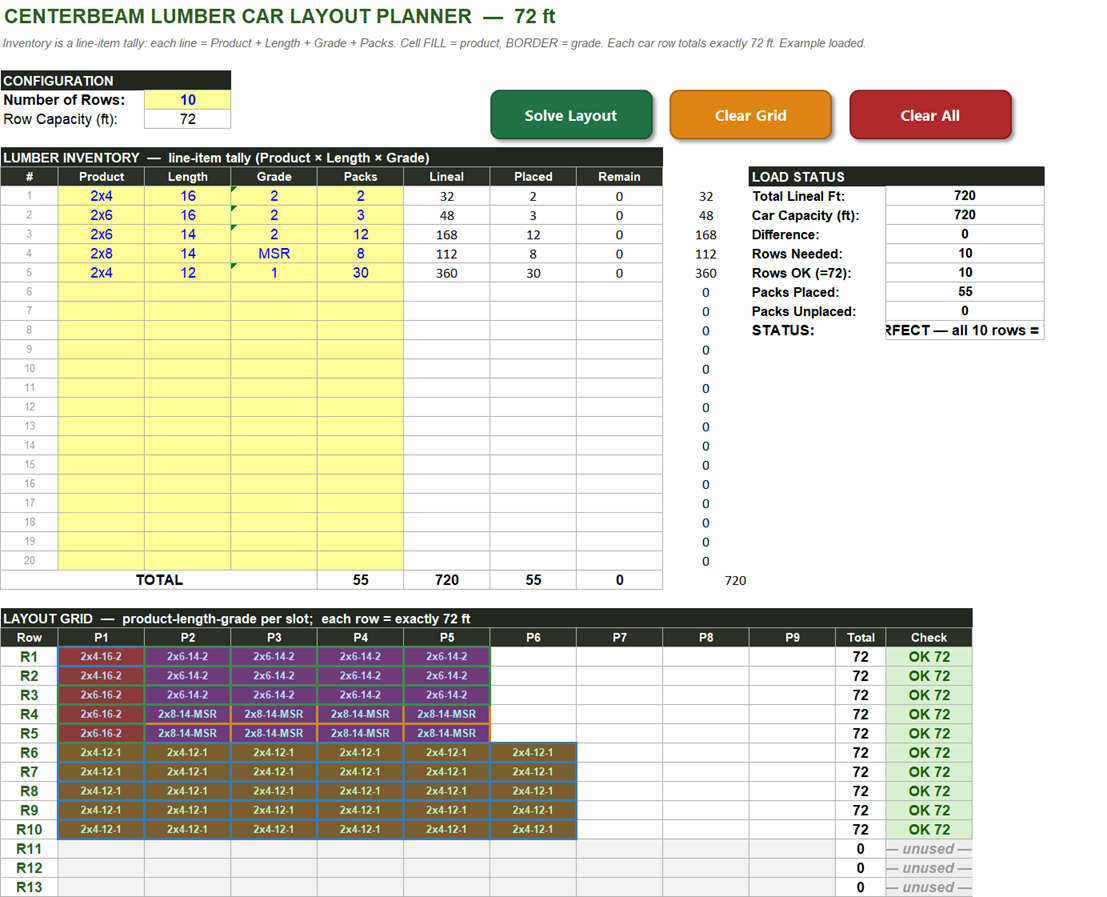
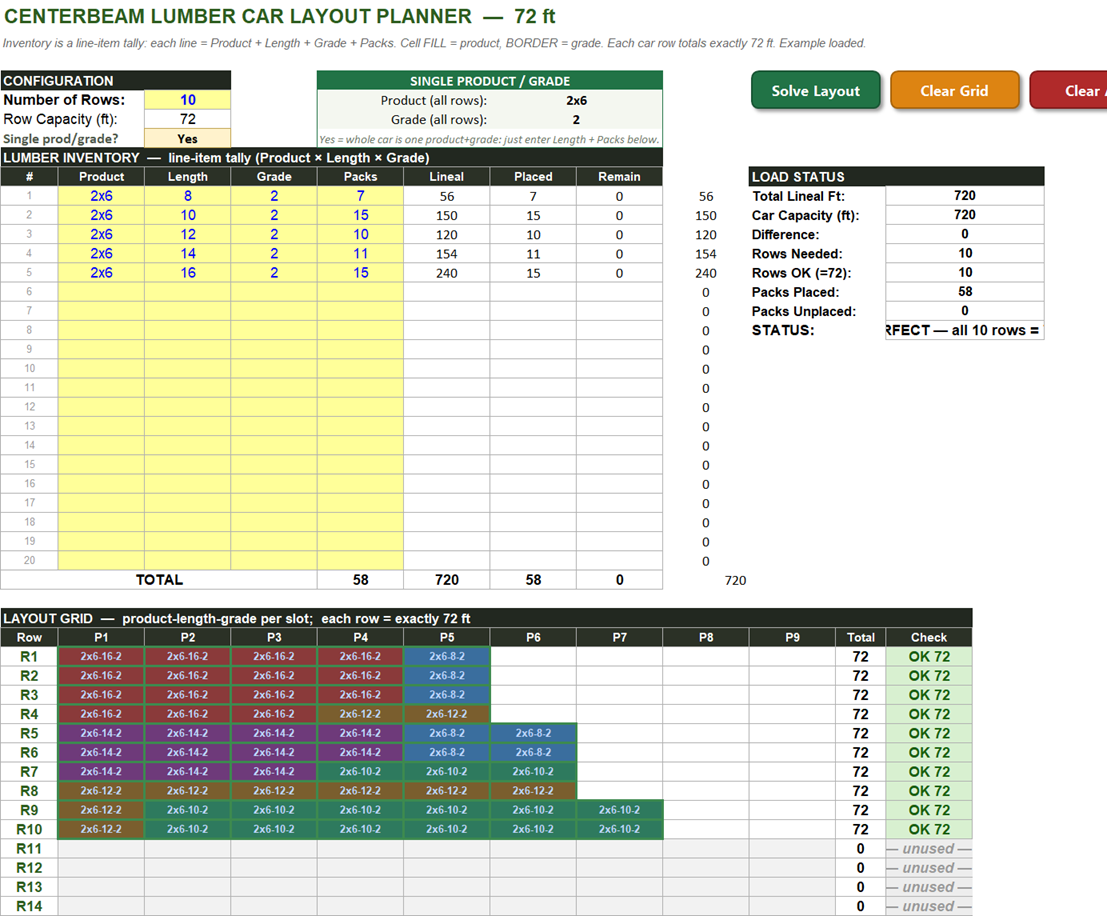
Add single product/grade mode to the Excel planner
Add a Single prod/grade toggle plus default Product/Grade pickers on the Planner sheet. In single mode the user enters only Length and Packs per line; SolveLayout fills blank Product/Grade cells from the defaults (per-line entries still respected), writes them back so the tally/status formulas compute, then solves. Buttons repositioned to clear the new panel; screenshot and README refreshed.

Changed region(s): [[0.0, 0.0, 1.0, 0.9989]]

diff --git a/README.md b/README.md
@@ -53,13 +53,20 @@ pack and drive the color scheme and the manifest breakdowns.
 ### Planner sheet
 
 1. Set **Number of Rows** (10 or 14).
-2. Fill the **line‑item inventory**: one row per Product + Length + Grade + Pack count
-   (dropdowns provided). Lineal ft, Placed, and Remaining compute automatically.
-3. The **Layout Grid** shows the load, one pack per slot, each row summing to 72 ft.
+2. Choose how the car is loaded with the **Single product/grade?** toggle:
+   - **Yes (single product/grade)** — most cars. Pick the **Product** and **Grade**
+     once in the *Single Product / Grade* box, then fill the inventory with just
+     **Length + Packs** on each line. On Solve, the blank Product/Grade cells are
+     filled in for you. (Any value you do type on a line is kept, so you can still
+     mix in the odd different pack.)
+   - **No (mixed)** — fill Product + Length + Grade + Packs on every line, as before.
+3. Fill the **line‑item inventory** (dropdowns provided). Lineal ft, Placed, and
+   Remaining compute automatically.
+4. The **Layout Grid** shows the load, one pack per slot, each row summing to 72 ft.
    - **Fill color = product**
    - **Bold colored border = grade**
    - Cell text is the full code `product-length-grade` (e.g. `2x6-14-2`).
-4. The **Load Status** box reports utilization, full rows, packs placed/unplaced,
+5. The **Load Status** box reports utilization, full rows, packs placed/unplaced,
    and an overall verdict.
 
 A solved example load is included so the sheet is populated on open.
@@ -86,7 +93,8 @@ The `.xlsm` already has three buttons wired up on the Planner sheet — just ope
 click **Enable Content**:
 
 - **Solve Layout** — reads the line‑item inventory, fills every selected row to 72 ft, and
-  assigns product+grade grouped so like packs stack in columns.
+  assigns product+grade grouped so like packs stack in columns. In **single product/grade**
+  mode it first fills any blank Product/Grade cells from the defaults you picked.
 - **Clear Grid** — clears the layout grid only.
 - **Clear All** — empties the grid and the line items.
 